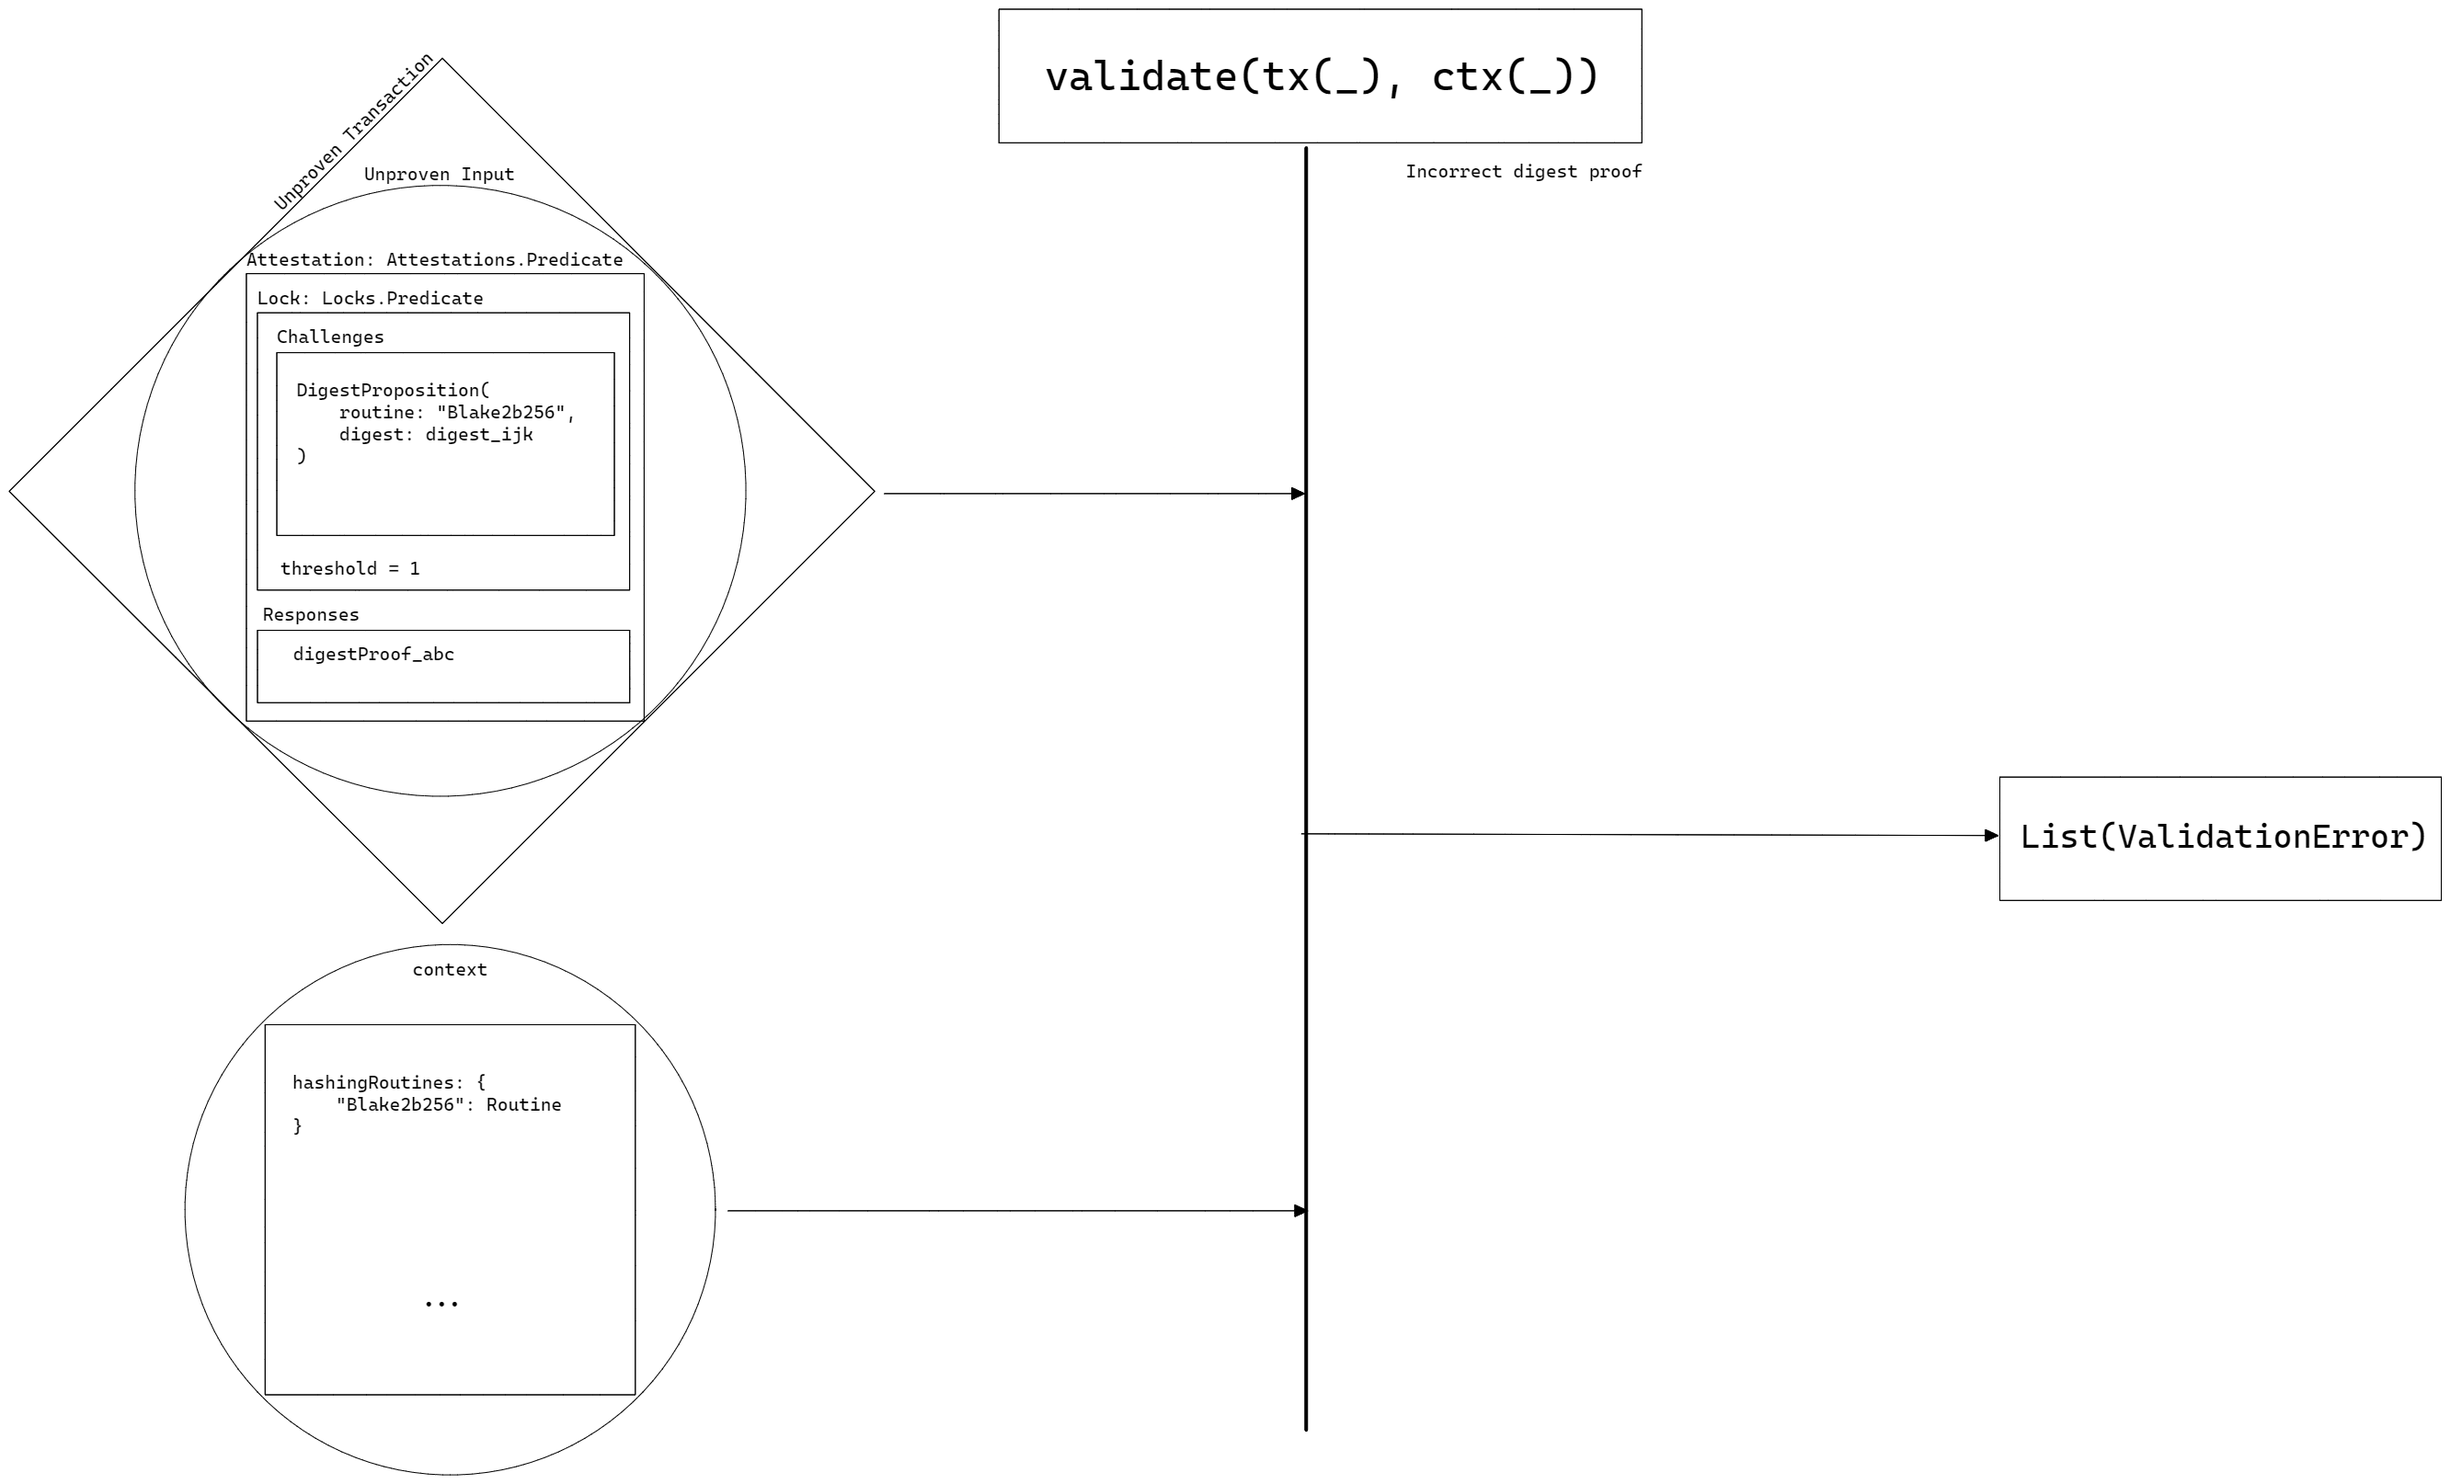
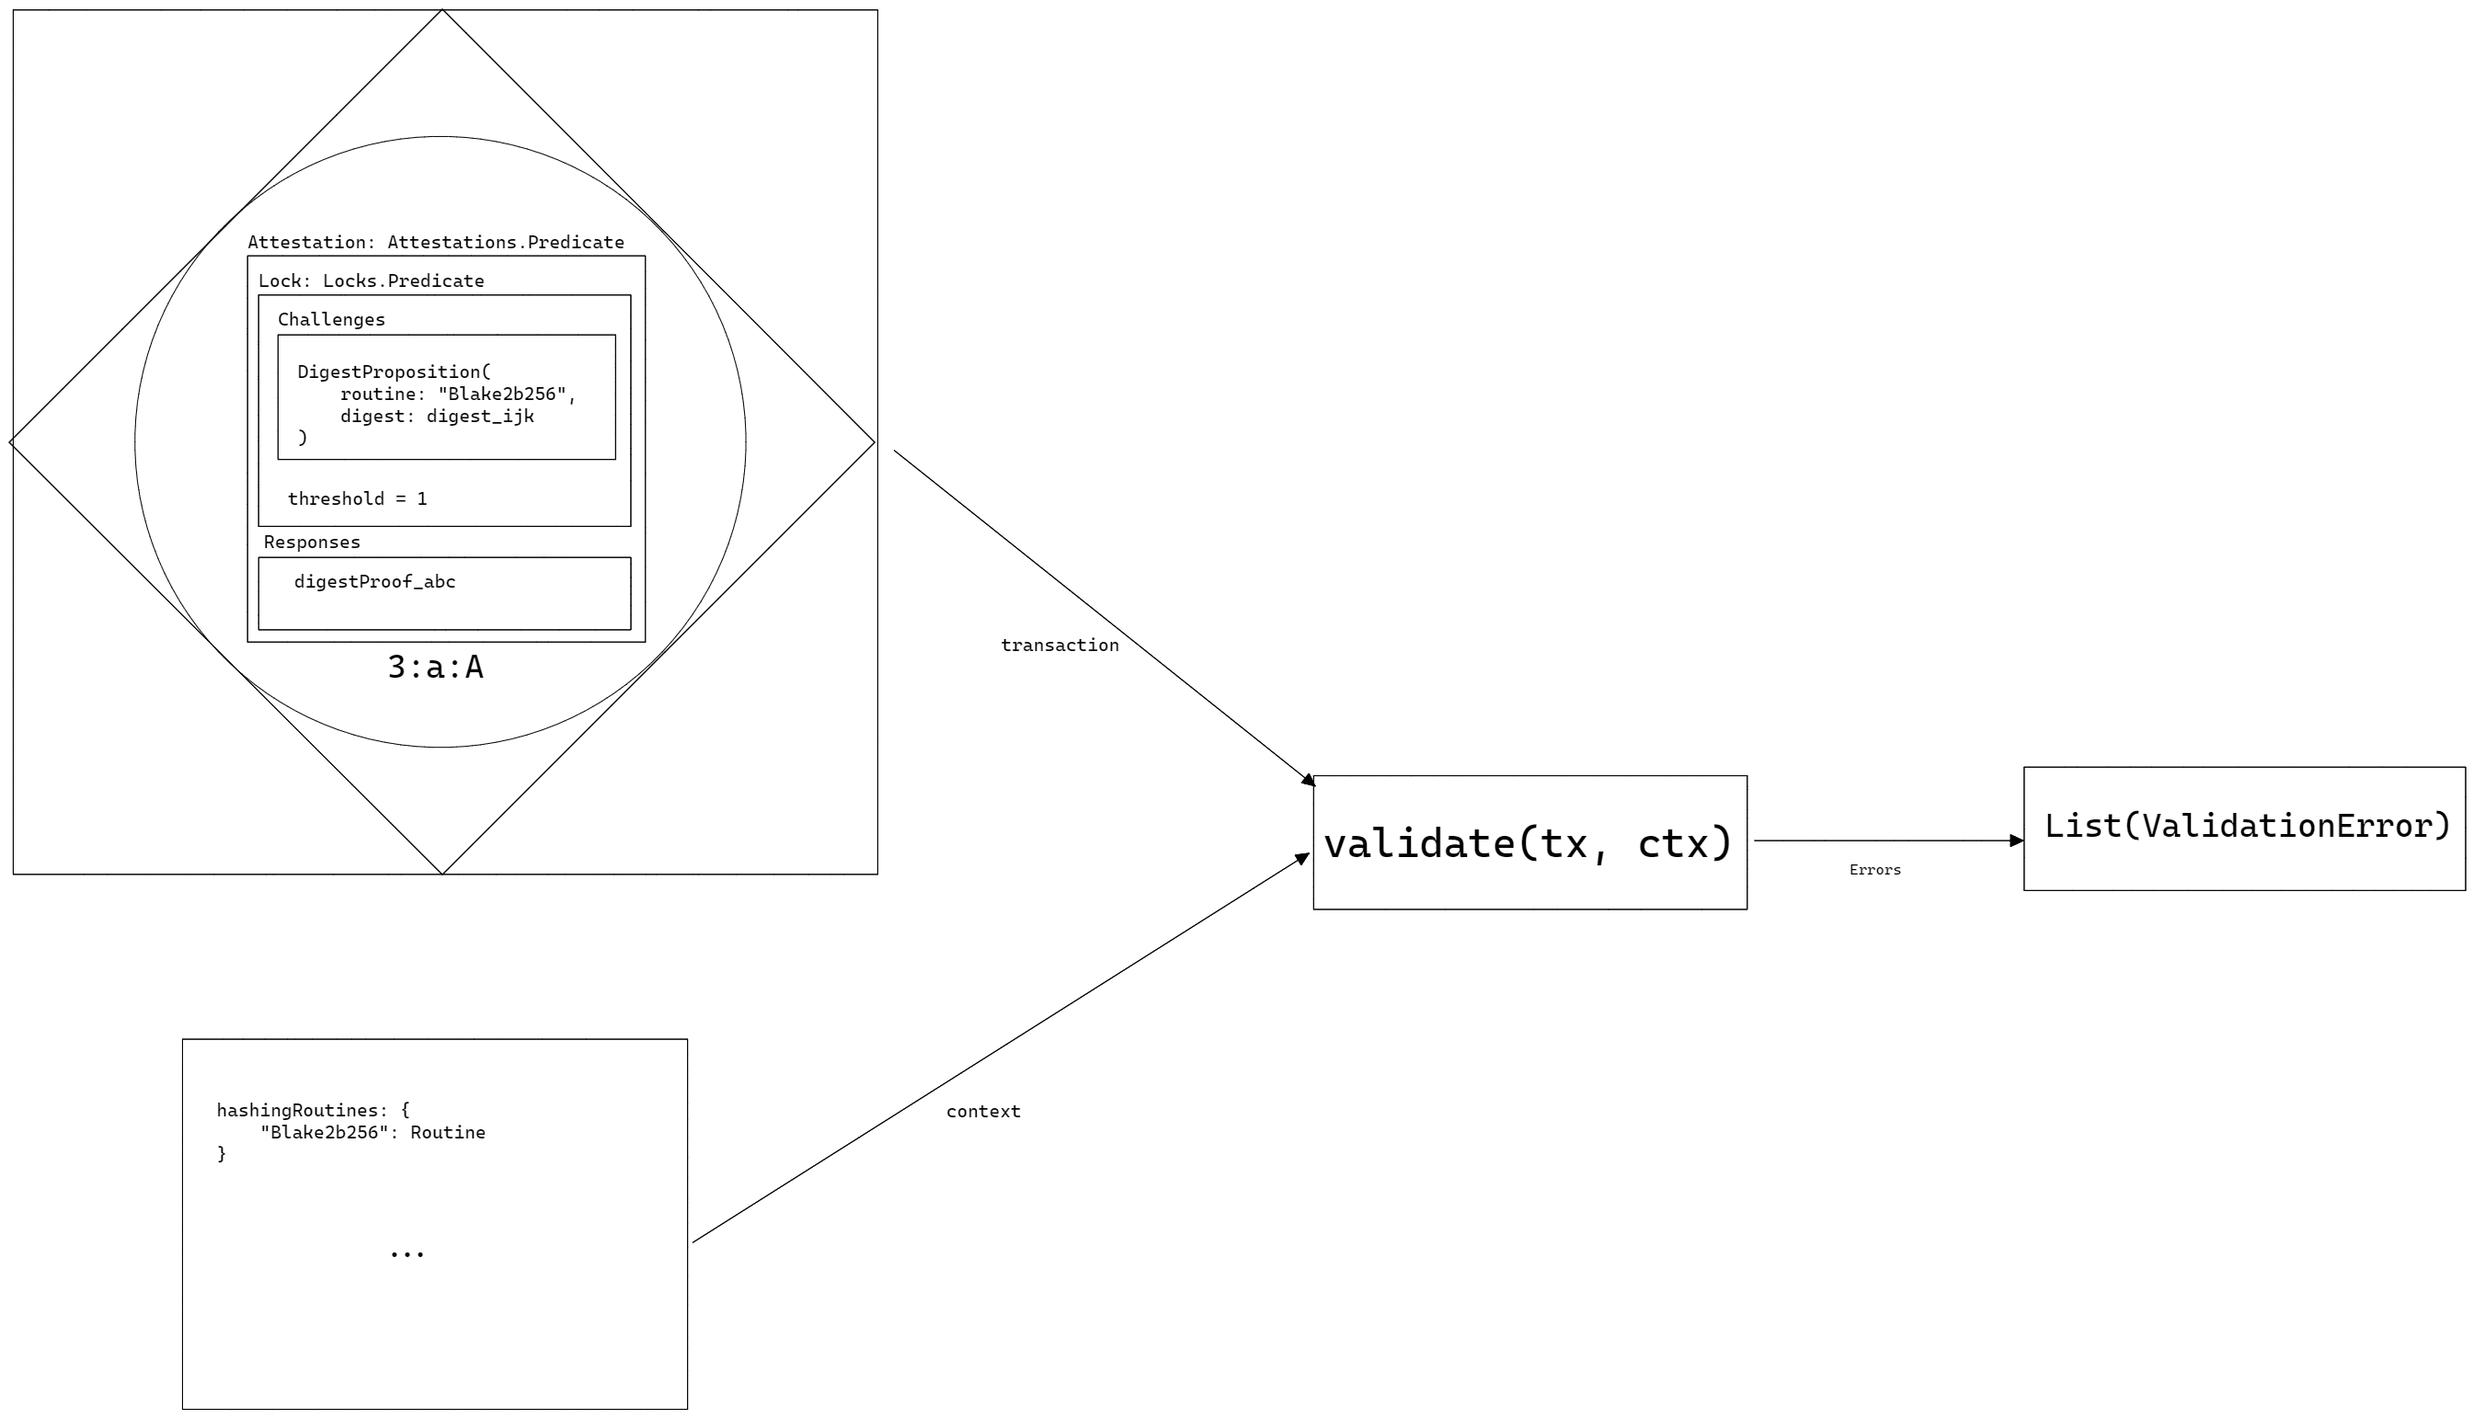
Updated diagrams

diff --git a/docs/Modules/Wallet/Credentialler/Prove.md b/docs/Modules/Wallet/Credentialler/Prove.md
@@ -33,9 +33,15 @@ The proven IoTransaction if possible. If not, a list of errors that occured.
 
 ### Test Cases
 
+![diagram](./images/legend.png)
+
 The following test cases only consider a transaction of 3 : a : A => 3 : a : B. That is, a single input to single output transaction where the quantity and asset type do not change but the Address does.
 
+![diagram](./images/transaction.png)
+
 #### Transaction Input Referencing a KnownIdentifier Unknown to the Wallet
+
+![diagram](./images/prove/knownIdentifierUnknown_transaction.png)
 
 ![diagram](./images/prove/knownIdentifierUnknown.png)
 
@@ -142,6 +148,8 @@ The following test cases only consider a transaction of 3 : a : A => 3 : a : B. 
 
 #### Transaction Input with Attestation Type Image32/64
 
+![diagram](./images/prove/attestationImage_transaction.png)
+
 ![diagram](./images/prove/attestationImage.png)
 
 * **Given** `unprovenTx` is an IoTransaction with a single input with an attestation type `Image32` or `Image64`
@@ -193,6 +201,8 @@ The following test cases only consider a transaction of 3 : a : A => 3 : a : B. 
 
 #### Transaction Input with Attestation Type Commitment32/64
 
+![diagram](./images/prove/attestationCommitment_transaction.png)
+
 ![diagram](./images/prove/attestationCommitment.png)
 
 * **Given** `unprovenTx` is an IoTransaction with a single input with an attestation type `Commitment32` or `Commitment64`
@@ -243,6 +253,8 @@ The following test cases only consider a transaction of 3 : a : A => 3 : a : B. 
 ```
 
 #### Transaction Input with Attestation Type Predicate Whose Challenges and Responses Lengths Differ 
+
+![diagram](./images/prove/attestationMalformed_transaction.png)
 
 ![diagram](./images/prove/attestationMalformed.png)
 
@@ -302,6 +314,8 @@ The following test cases only consider a transaction of 3 : a : A => 3 : a : B. 
 ```
 
 #### Transaction Input with Attestation Type Predicate With Proof That Requires Secret Data (Available)
+
+![diagram](./images/prove/dataNeeded_transaction.png)
 
 ![diagram](./images/prove/dataAvailable.png)
 
@@ -400,6 +414,8 @@ The following test cases only consider a transaction of 3 : a : A => 3 : a : B. 
 
 #### Transaction Input with Attestation Type Predicate With Proof That Requires Secret Data (Unavailable)
 
+![diagram](./images/prove/dataNeeded_transaction.png)
+
 ![diagram](./images/prove/dataUnvailable.png)
 
 * **Given** `unprovenTx` is an IoTransaction with a single input with an attestation type `Predicate`
@@ -493,6 +509,8 @@ The following test cases only consider a transaction of 3 : a : A => 3 : a : B. 
 ```
 
 #### Transaction Input with Attestation Type Predicate With Proof That Does Not Require Secret Data
+
+![diagram](./images/prove/dataUnneeded_transaction.png)
 
 ![diagram](./images/prove/dataUnneeded.png)
 

diff --git a/docs/Modules/Wallet/Credentialler/Validate.md b/docs/Modules/Wallet/Credentialler/Validate.md
@@ -35,7 +35,11 @@ The list of validation errors that occured, if any.
 
 ### Test Cases
 
+![diagram](./images/legend.png)
+
 The following test cases only consider a transaction of 3 : a : A => 3 : a : B. That is, a single input to single output transaction where the quantity and asset type do not change but the Address does.
+
+![diagram](./images/transaction.png)
 
 #### Transaction Input with Attestation Type Image32/64
 
